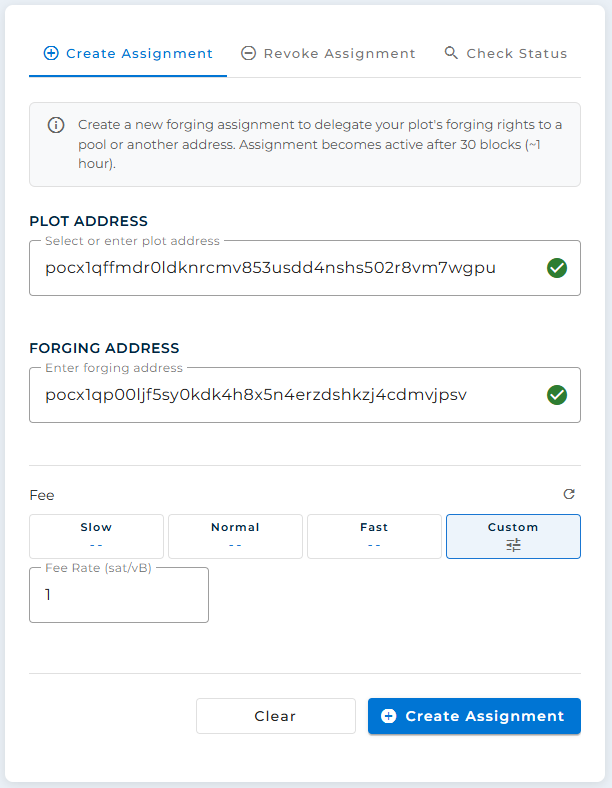
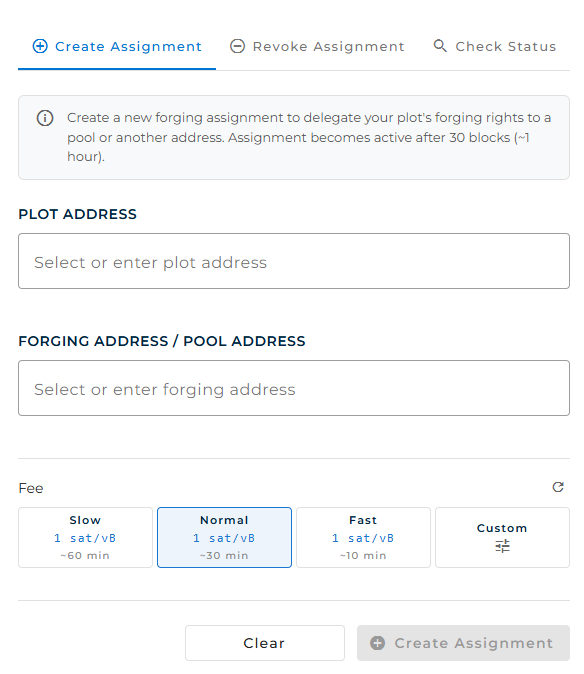
docs(handbook): sync to wallet v2.0.3 and add source-revision anchor (#90)
Bring the user handbook up to date with the wallet at 9e4854c (v2.0.3) and
record the revision it tracks, so future updates are a diff rather than a
full re-read.

Source-revision anchor:
- handbook/BASED-ON.md records the based-on commit + update procedure;
  README.md points to it. The original handbook (PR #81) recorded no revision;
  inferred base was 4c48855 (v2.0).

User-facing documentation deltas (found by diffing locales + components across
4c48855..9e4854c, including a backward audit of pre-base PRs):
- Pool forging addresses: new editor in the wizard's pool modal + autocomplete
  on the Forging Assignment screen (ch15, ch19; #78/#79).
- Configurable plot file size in GiB (ch15, ch16; #80).
- Miner/aggregator transient "Stopping" state, RPC/aggregator port-edit locks,
  and the custom bitcoind arguments editor (ch12, ch20, ch24; #89/#75).
- Clock-drift indicator + System Clock Drift dialog + notification toggle,
  previously undocumented (ch06, ch12, ch20; #77).
- Assignment/Revoke transaction types + detail panels, and fix the Abandon
  section that was wrongly marked "future release" (ch09; #74/#71).
- Cover bumped to v2.0.3; handbook.pdf rebuilt; screenshots retaken.

Claude-Session: https://claude.ai/code/session_01EnNB1AAjNeoabBjcqqr4bk

Pull request: docs(handbook): sync to wallet v2.0.3 + source-revision anchor
## Summary

The user handbook was authored a while ago and tracked no wallet revision, so it had silently drifted. This PR **syncs it to the current wallet (`9e4854c`, v2.0.3)** and introduces a durable anchor so future updates are a diff, not a re-read.

## Source-revision anchor (new)

- **`handbook/BASED-ON.md`** records the based-on commit + the update procedure (diff locales/components `BASED-ON..HEAD`). `README.md` now points to it.
- The original handbook (PR #81) recorded no revision; the inferred authoring base was **`4c48855` (v2.0)**, from the screenshot dates.

## How the delta was found

Diffed the wallet's user-facing surface across `4c48855..9e4854c` (locale keys + components), **plus a backward audit of pre-base PRs** after the clock-drift indicator (#77) turned out to predate the handbook yet was never documented. That audit surfaced three more gaps (#74, #75, and a mislabelled #71).

## Documentation changes

| Area | Change | Chapters | Source |
|------|--------|----------|--------|
| Pool forging addresses | New editor in the wizard's pool modal + autocomplete on the Forging Assignment screen | ch15, ch19 | #78, #79 |
| Plot file size | Configurable in GiB (default 1 TiB) | ch15, ch16 | #80 |
| Forging-address field | Renamed "Forging Address / Pool Address" | ch19 | #78 |
| Stopping state / port locks / custom bitcoind args | Transient *Stopping* state, RPC & aggregator port-edit locks, custom-args editor | ch12, ch20, ch24 | #89, #75 |
[…]

diff --git a/handbook/BASED-ON.md b/handbook/BASED-ON.md
@@ -1,0 +1,38 @@
+# Handbook source revision
+
+This file records the exact wallet revision the handbook content reflects. Keep
+it accurate: it is the anchor that makes future updates a *delta* (diff the app
+between this commit and the new HEAD) instead of a full re-read.
+
+| Field            | Value                                      |
+|------------------|--------------------------------------------|
+| Based-on commit  | `9e4854c1bb406d18041852a72cac89ab45a06017` |
+| Short SHA        | `9e4854c`                                   |
+| App version      | `2.0.3`                                      |
+| Synced on        | 2026-06-22                                   |
+
+## How to update the handbook against a newer wallet
+
+1. Note the new target: `git rev-parse HEAD` (and the app version in
+   `web-wallet/package.json`).
+2. Diff the wallet's user-facing surface between the based-on commit and the
+   target, e.g.:
+
+   ```sh
+   git log --oneline 9e4854c..HEAD
+   git diff 9e4854c..HEAD -- web-wallet/src/assets/locales/en.json
+   git diff 9e4854c..HEAD -- web-wallet/src/app
+   ```
+
+   `en.json` is the fastest signal: added/changed keys map almost one-to-one to
+   user-visible label, hint, and feature changes.
+3. Apply the documentation deltas to the affected chapters, retake any
+   screenshots whose UI changed, and bump `metadata.yaml`'s `date:`.
+4. Update the table above to the new commit, SHA, version, and date.
+
+## History
+
+| Synced on  | Based-on  | Version | Notes                                              |
+|------------|-----------|---------|----------------------------------------------------|
+| 2026-06-22 | `9e4854c` | 2.0.3   | First recorded revision. See `UPDATE-NOTES-2026-06.md`. |
+| (original) | `4c48855` | 2.0     | Initial handbook authoring (no revision was recorded). |

diff --git a/handbook/chapters/ch20-mining-dashboard.md b/handbook/chapters/ch20-mining-dashboard.md
@@ -28,7 +28,7 @@ The **Mining Status** card carries the control.
 - A **Start** / **Stop** button toggles the miner.
 - An **Auto-start** checkbox makes the miner start automatically whenever Phoenix launches (after the node is ready).
 
-To begin mining, click **Start**. The miner connects to your configured chains, loads your plot capacity, and begins responding to new blocks. To stop, click **Stop** — mining halts immediately; there is no batch to finish as there is with the plotter.
+To begin mining, click **Start**. The miner connects to your configured chains, loads your plot capacity, and begins responding to new blocks. To stop, click **Stop** — there is no batch to finish as there is with the plotter, but the miner briefly shows a *Stopping* state while its scan task winds down before it reports *Stopped*. During that moment the Start control is unavailable; it returns once the miner has fully stopped.
 
 > **Tip** — **Auto-start** is what you want for an unattended rig: after a reboot, power restoration, or a Phoenix update, the miner comes back by itself once Bitcoin-PoCX Core is ready. Leave it on for any machine whose job is to mine. The one thing auto-start *cannot* do is unlock an encrypted wallet — see the clock and wallet section below.
 
@@ -42,6 +42,7 @@ The status text and dot reflect what the miner is doing:
 | *Starting*   | The miner is connecting to chains and loading capacity.                                         |
 | *Scanning*   | A new block arrived; the miner is reading its plots to find a deadline. A progress bar shows how far through the scan it is. |
 | *Idle*       | The miner is running and has finished scanning the current block; it is waiting for the next one. |
+| *Stopping*   | You clicked Stop; the miner's scan task is winding down. It transitions to *Stopped* once it has fully exited. |
 | *Error*      | Something is wrong — the message names the problem.                                              |
 
 Most of a healthy miner's life is spent flipping between *Scanning* (briefly, when a block arrives) and *Idle* (waiting for the next block). On Bitcoin-PoCX's ~120-second block interval, you will see a short scan every couple of minutes.
@@ -130,7 +131,25 @@ The dashboard packs a lot of numbers; here is how to read them as a single answe
 
 Because Bitcoin-PoCX enforces a **15-second** timestamp tolerance (Chapters 3 and 14), a drifting system clock is one of the most insidious mining problems: the miner appears to run normally, scans complete, deadlines are found — but blocks you forge are rejected by peers as "too far in the future" or "too far in the past," and you quietly earn nothing.
 
-If your miner seems healthy on the dashboard but never successfully forges over a long period, **suspect the clock**. Confirm your operating system's network time synchronisation (NTP) is enabled and that a power-saving profile is not suspending it. A correctly synchronised clock is a prerequisite for mining, not an optional nicety.
+To make this visible before it costs you blocks, Phoenix monitors your clock against network time and surfaces it as the **clock-drift indicator** — the small clock (`schedule`) icon in the toolbar (Chapter 6). It colours itself by severity:
+
+| Indicator | Meaning                                                                                  |
+|-----------|------------------------------------------------------------------------------------------|
+| **Green** | *System clock is in sync.* Drift is comfortably within the safe threshold.                |
+| **Amber** | *Drift is approaching the safe threshold.* Still forging, but worth fixing now.           |
+| **Red**   | *Drift exceeds the safe threshold — PoCX forging will fail.* Blocks you forge are being rejected. |
+
+Clicking the indicator opens the **System Clock Drift** dialog, which gives you the detail behind the colour:
+
+![The System Clock Drift dialog: offset against NTP, with a Check Now button.](images/processed/ch20-clock-drift.png){width=55%}
+
+- **Offset** — how far your clock is ahead of or behind network time, and the warning/critical thresholds it is measured against (*"Warning at ±Ns · forging fails above ±Ns"*).
+- **Local time** and **NTP time** side by side, the **server** queried, the round-trip time (**RTT**), and how many **sources** agreed.
+- **Last checked**, and a **Check Now** button to re-query immediately.
+
+The indicator and dialog only appear when clock-drift monitoring is enabled — the *Warn when system clock drifts* toggle in Settings → Notifications (Chapter 12), which is on by default.
+
+If your miner seems healthy on the dashboard but never successfully forges over a long period, **suspect the clock** — and check this indicator first. Confirm your operating system's network time synchronisation (NTP) is enabled and that a power-saving profile is not suspending it. A correctly synchronised clock is a prerequisite for mining, not an optional nicety.
 
 ### The locked-wallet-after-restart trap
 

diff --git a/handbook/chapters/ch09-history.md b/handbook/chapters/ch09-history.md
@@ -23,7 +23,7 @@ The filter bar below the header narrows what appears in the table. All filters c
 | Filter   | What it does                                                                                                              |
 |----------|---------------------------------------------------------------------------------------------------------------------------|
 | **Search**  | Free-text match against transaction IDs and addresses. Useful when you remember part of a txid or recipient.            |
-| **Type**    | Restrict by category: *All*, *Send*, *Receive*, *Immature*, *Generate*. The mining-specific categories are explained below. |
+| **Type**    | Restrict by category: *All*, *Send*, *Receive*, *Immature*, *Generate*, *Assignment*, *Revoke*. The mining-specific categories are explained below. |
 | **From**    | Hide transactions older than the selected date.                                                                          |
 | **To**      | Hide transactions newer than the selected date.                                                                          |
 | **Reset**   | Clear all filters in one click.                                                                                          |
@@ -37,6 +37,13 @@ Two of the type-filter options exist because Bitcoin-PoCX miners receive rewards
 
 If you have never mined with this wallet, both filters will return empty lists.
 
+Two more types appear once you use forging assignments (Chapter 19):
+
+- **Assignment** — a transaction that delegated forging authority from one of your plot addresses to a forging address.
+- **Revoke** — a transaction that reclaimed forging authority back to the plot owner.
+
+Phoenix recognises these from their on-chain `OP_RETURN` marker and labels them as their own types rather than as ordinary sends, so you can pick them out of the history at a glance.
+
 ## The transactions table
 
 The table has seven columns. Reading left to right:
@@ -44,7 +51,7 @@ The table has seven columns. Reading left to right:
 | Column              | What you see                                                                                  |
 |---------------------|-----------------------------------------------------------------------------------------------|
 | **Date**            | Two-line stack: the date on top, the time below, in your local timezone.                      |
-| **Type**            | A small badge: *Send*, *Receive*, *Generate* (mined), or *Immature* (mining reward not yet spendable). |
+| **Type**            | A small badge: *Send*, *Receive*, *Generate* (mined), *Immature* (mining reward not yet spendable), or — for forging-assignment transactions (Chapter 19) — *Assignment* / *Revoke*. |
 | **Amount**          | Signed amount, in BTCX. Sends are shown as a debit, receives as a credit, fees deducted from sends. |
 | **Account**         | The wallet account label (if any) and the address involved in the transaction.                |
 | **Status**          | Confirmation status. See *Confirmation states* below.                                         |
@@ -119,6 +126,15 @@ Below the summary, two side-by-side panels list every **input** and **output** o
 
 The arrow between the two panels visualises that inputs are consumed and outputs are created. Total input minus total output equals the fee paid to the miner.
 
+### Assignment and revocation details
+
+When the transaction you opened is a forging **Assignment** or **Revoke** (Chapter 19), the detail page adds a dedicated panel above the inputs and outputs, decoded from the transaction's `OP_RETURN`:
+
+- **Assignment Details** — the **plot address** whose forging is delegated, the **forging address** it is delegated to, and the **activation height** at which the assignment takes effect. Until the transaction confirms, the height reads *Pending Confirmation*.
+- **Revocation Details** — the **plot address** being reclaimed and the **effective height** at which authority returns to the owner, again showing *Pending Confirmation* while unconfirmed.
+
+These are the same figures the Forging Assignment screen's *Check status* tab reports (Chapter 19); the transaction detail page is simply where you see them for a specific assignment or revocation transaction in your history.
+
 > **Tip** — A small *change* output back to your own wallet is normal and expected. Bitcoin-style transactions almost never spend exactly the amount of an existing UTXO — the difference returns to a fresh address you control. Phoenix's balance accounting handles this transparently; the inputs/outputs view shows it explicitly.
 
 ## Bumping a stuck transaction (RBF)
@@ -153,8 +169,6 @@ Below the priority buttons, a small summary block highlights the **fee increase*
 When you click **Confirm**, Phoenix calls Bitcoin-PoCX Core's `bumpfee` RPC. Core constructs the replacement transaction, signs it with your wallet's keys, and broadcasts it. A success notification displays the new transaction's ID; the original transaction's row in the list is replaced by the new one (or marked superseded, depending on your view), and the new fee figure now reflects what you just paid.
 
 If even the bumped transaction will not confirm — fees may have spiked further while you were watching — you can bump again with a higher rate, or wait for mempool conditions to settle. Chapter 26 covers the deeper troubleshooting cases.
-
-> **Note** — The workflow described in the next section is **planned for a future release** and is not yet available in the wallet. The text below describes the intended behaviour so this handbook is ready when the feature ships. Until then, the only ways out of a stuck *non-RBF* transaction are to wait for it to be evicted from the mempools, or — if the transaction was sent with RBF enabled — to use the bump-fee workflow above.
 
 ## Abandoning a stuck transaction
 

diff --git a/handbook/chapters/ch12-settings.md b/handbook/chapters/ch12-settings.md
@@ -6,7 +6,7 @@ You can reach it from two places: the **gear** icon in the toolbar and the **Set
 
 The screen is organised into four tabs. This chapter walks through each one in turn.
 
-![Settings â€” the Node Configuration tab in managed mode.](images/processed/ch12-settings-managed.png){width=98%}
+![Settings â€” the Node Configuration tab in managed mode.](images/processed/ch12-settings-managed.png){width=55%}
 
 ## Tab 1 — Node Configuration
 
@@ -50,6 +50,18 @@ If no node binary is installed yet (because you previously chose external mode, 
 | **Aggregator listen port** | The port the optional aggregator listens on when enabled (Chapter 24). Defaults to `8080`. |
 
 Override either only if another program already uses the default.
+
+> **Note** — A running service locks the port that depends on it, and a small hint appears explaining why. The **Wallet RPC port** cannot be edited while the node, miner, or aggregator is running. The **Aggregator listen port** is stricter only about the parts that use it — it is locked while the miner or aggregator is running, but a running node alone does not block it. Stop the relevant services first, change the port, then start them again.
+
+**Custom bitcoind arguments.** Also inside Advanced options is an editor for extra command-line arguments passed to the managed `bitcoind` when it starts — for tuning the node beyond what the rest of the panel exposes (for example `dbcache`, `proxy`, or `maxconnections`).
+
+- Each argument is a **Key** and an optional **Value** row; click **Add argument** to add one and **Remove** to delete it. When none are set, the editor shows *"No custom arguments set."*
+- Write option names **without the leading dash** — `dbcache`, not `-dbcache`.
+- For **flag-only** options that take no value, leave the value empty (the field hints *"(empty = flag only)"*).
+- A handful of keys are **managed by the wallet** (the ports, network, data directory, and similar that Phoenix sets itself). If you enter one of those, Phoenix flags it as reserved and ignores it on save, so your custom argument can never fight the wallet's own configuration.
+- Changes take effect on the next node start — **restart the node to apply them** (the editor reminds you).
+
+> **Warning** — These arguments are passed straight to Bitcoin-PoCX Core. A wrong or conflicting option can stop the node from starting. Change this only if you understand the `bitcoind` option you are setting; when in doubt, leave it empty.
 
 **Node updates.** A small section near the bottom of the panel.
 
@@ -111,6 +123,12 @@ The list is split into two groups.
 | **Node connected**      | Phoenix establishes (or re-establishes) its RPC connection to Core.                    |
 | **Node disconnected**   | Phoenix loses its RPC connection to Core.                                              |
 | **Sync complete**       | The node finishes its initial blockchain sync or catches back up after being behind.   |
+
+### System notifications
+
+| Toggle                          | Fires when…                                                                            |
+|---------------------------------|----------------------------------------------------------------------------------------|
+| **Warn when system clock drifts** | Your system clock drifts far enough from network time to threaten forging. This also drives the toolbar's clock-drift indicator (Chapter 6) and the **System Clock Drift** dialog (Chapter 20). On by default — a drifting clock silently breaks mining, so the warning is worth keeping. |
 
 A master toggle near the top of the tab disables every notification at once if you want a quiet session without losing the per-event configuration.
 

diff --git a/handbook/chapters/ch15-mining-wizard.md b/handbook/chapters/ch15-mining-wizard.md
@@ -43,7 +43,7 @@ The modal asks three things in sequence: the chain name, the mode, and the mode-
 **Mode.** Three radio buttons:
 
 - **Solo.** Mine via the local Bitcoin-PoCX Core node Phoenix is already connected to. No URL or credentials required; everything stays in-process.
-- **Pool.** Mine into a pool you select from a built-in list of known pools (the list is curated by the project; you do not type a URL yourself).
+- **Pool.** Mine into a pool you select from a built-in list of known pools (the list is curated by the project; you do not type a URL yourself). Picking a known pool also fills in that pool's published *forging addresses* for you — see *Pool forging addresses* below.
 - **Custom.** Mine into a URL you supply. Used for private pools, development nodes, or relays. You also specify whether the endpoint runs in *solo* or *pool* mode and what block time to assume.
 
 **Connection and authentication.** Pool and custom modes show an *authentication* section with three options:
@@ -55,6 +55,12 @@ The modal asks three things in sequence: the chain name, the mode, and the mode-
 | **Cookie**  | The endpoint accepts a cookie file path you supply.                                           |
 
 Solo mode also exposes a small **Aggregator** toggle in the modal. Enable it here if this Phoenix instance is going to be the aggregator for a multi-machine farm (Chapter 24); leave it off otherwise.
+
+**Pool forging addresses** (pool mode). Below the pool selector, the modal shows a list of the pool's **forging addresses** — the addresses your miners assign to in order to mine for that pool (Chapter 19). When you pick a known pool, Phoenix seeds this list from the pool's published address(es); you can edit them, or click **+ Add address** to add your own, each with a free-text label. Addresses are validated as you type, and blank rows are dropped when you save. These saved addresses are what later appear in the dropdown on the **Forging Assignment** screen (Chapter 19), so you do not have to paste the pool's address by hand every time.
+
+![The pool chain modal: the pool selector and the seeded list of pool forging addresses.](images/processed/ch15-pool-addresses.png){width=60%}
+
+**Saving the modal.** The footer button reads **Add** when you are creating a new chain and **Apply** when you are editing an existing one; **Cancel** discards the modal. Applying a change stages it in the wizard — it is written to disk when you **Save & close** the wizard itself.
 
 > **Tip** — A typical first setup has exactly one chain: a solo chain against your local Bitcoin-PoCX Core. Pool mining usually requires an on-chain forging assignment to the pool's forging address before submissions are accepted, which is a Chapter 19 concern. Set the solo chain up first, get mining working, and revisit pool configuration once you understand how assignments work.
 
@@ -140,6 +146,7 @@ The collapsible block in step 2 is the densest part of the wizard. Most of it is
 |--------------------------|-------------------------------------------------------------------------------------------|
 | **Drives in parallel**   | How many drives the plotter writes to simultaneously. Match this to your plotting device's throughput versus per-drive write speed: a GPU that plots at ~600 MiB/s can keep four drives busy at ~150 MiB/s each, so *drives in parallel = 4* saturates it. Set it too low and the device idles; too high and each drive starves. 2–4 is a reasonable range for most rigs; pushing higher only pays off when the plotting device is fast enough to feed them all. |
 | **Memory escalation**    | A multiplier on the per-drive plotter cache budget — **use as much of your RAM as you can spare.** A larger cache lets the plotter accumulate bigger contiguous chunks before flushing, which turns plotting into longer linear writes to the HDD and raises write throughput. Aim for **5 or higher** if your RAM supports it. Use the live memory-estimation box above as your guide: push the value up until the estimated total is close to your available RAM, leaving roughly **1–2 GiB free for the operating system**. Going past that — so the estimate exceeds available RAM — risks swapping, which is far slower than the plotting speed you were trying to gain. |
+| **Plot file size (GiB)** | The size of each individual plot file, in GiB (1 warp = 1 GiB). Default is `1024` — a 1 TiB file. Phoenix splits each drive's allocation into files of this size, plus a smaller remainder file. Smaller files mean more files per drive (and more resume points); larger files mean fewer, bigger ones. The accepted range is 8 GiB to 16384 GiB (16 TiB). Leave it at the default unless your filesystem or workflow has a specific reason to prefer a different file size. |
 | **PoW scaling level**    | The X-level the plotter writes — `X1` through `X6`. Higher levels embed exponentially more proof-of-work per warp, in line with the network's halving schedule (whitepaper §6). The wizard defaults to the network's current minimum; you can pre-plot one level higher to avoid an immediate upgrade after the next halving. |
 | **Direct I/O (plotter)** | Bypasses the OS file cache when writing plot files. Faster on large workloads; can interfere with cache-aware backup tools (which you should not be using on plot drives anyway). |
 | **Async write**          | Issues plotter writes asynchronously to overlap I/O with compute. The default on the v2 plotter. |

diff --git a/handbook/README.md b/handbook/README.md
@@ -18,6 +18,13 @@ From the `handbook/` directory:
 
 The output is written to `../handbook.pdf` (the repository root). The first build under MiKTeX takes longer because it downloads several LaTeX packages on demand.
 
+## Source revision
+
+The handbook documents a specific build of the wallet. The commit it is
+currently based on — and the procedure for updating it against a newer build —
+is recorded in [`BASED-ON.md`](BASED-ON.md). Update that file whenever you sync
+the handbook to a new wallet revision.
+
 ## Project layout
 
     phoenix-pocx-handbook/

diff --git a/handbook/chapters/ch06-tour.md b/handbook/chapters/ch06-tour.md
@@ -117,8 +117,9 @@ A row of small icons that turn solid (active) when something is running. They ap
 | **Miner**         | `hardware`  | The miner is running and scanning plots. Visible only after you have configured mining (Chapter 15).         |
 | **Plotter**       | `storage`   | The plotter has work to do. Solid means actively plotting; outlined means a plan exists but is paused.       |
 | **Wallet lock**   | `lock` / `lock_open` | Visible only when at least one encrypted wallet is loaded. The icon shows whether any wallet is currently unlocked for spending. |
+| **Clock drift**   | `schedule`  | A small clock that colours green / amber / red according to how far your system clock has drifted from network time. Visible only when clock-drift monitoring is enabled (Chapter 12). Click it to open the **System Clock Drift** dialog (Chapter 20). |
 
-Hovering over any of these icons reveals a tooltip with the current state in words. They are the fastest way to confirm at a glance that the things you expect to be running really are.
+Hovering over any of these icons reveals a tooltip with the current state in words — the clock indicator's tooltip reads, for example, *"Clock is 0.4s ahead of NTP."* They are the fastest way to confirm at a glance that the things you expect to be running really are.
 
 ### Wallet selector
 

diff --git a/handbook/chapters/ch19-forging-assignments.md b/handbook/chapters/ch19-forging-assignments.md
@@ -49,11 +49,12 @@ Open **Forging Assignment** from the sidebar's *Mining* group. The screen shows 
 
 The **Create assignment** tab needs two addresses.
 
+<!-- TODO screenshot retake: ch19-create-assignment.png — the Forging Address field is now labelled "Forging Address / Pool Address" and is a select-or-enter with an autocomplete dropdown. -->
 ![The Create assignment tab: plot address, forging address, and fee.](images/processed/ch19-create-assignment.png){width=60%}
 
 **Plot address.** A *select-or-enter* field: pick one of your wallet's addresses from the dropdown, or paste an address manually. This is the address embedded in the plots whose forging you want to delegate — usually the plotting address you set in the mining wizard (Chapter 15).
 
-**Forging address.** The address you are delegating forging authority *to*. For pool mining, this is the pool's forging address (from the pool's information page). For a cold/hot split, this is the address of the hot wallet on your mining machine. Phoenix enforces one rule here: the forging address must be **different** from the plot address — assigning an address to itself is meaningless and is rejected.
+**Forging Address / Pool Address.** The address you are delegating forging authority *to*. This is also a *select-or-enter* field: as you focus it, an autocomplete dropdown offers the **pool forging addresses you configured in the mining wizard** (Chapter 15), each shown with its label and pool name — so for pool mining you can pick the pool's address directly instead of pasting it. You can still type or paste any address by hand. For pool mining, this is the pool's forging address (from the pool's information page, or seeded into the wizard when you selected a known pool). For a cold/hot split, this is the address of the hot wallet on your mining machine. Phoenix enforces one rule here: the forging address must be **different** from the plot address — assigning an address to itself is meaningless and is rejected.
 
 When both are filled, click **Create assignment**. Phoenix builds the `OP_RETURN` transaction, asks Bitcoin-PoCX Core to sign it with the plot owner's key (you will be prompted for the wallet password if the wallet is encrypted), and broadcasts it — exactly like an ordinary send, with the same fee-selection controls. Once the transaction confirms, the assignment enters its **Assigning** state and the ~30-block activation clock starts.
 

diff --git a/handbook/chapters/ch16-plotting.md b/handbook/chapters/ch16-plotting.md
@@ -18,6 +18,8 @@ A plan is made of three kinds of task:
 
 The plan is ordered so that resumable `.tmp` files are dealt with sensibly, fresh plotting follows, and each completed drive is added to the miner as it becomes ready.
 
+> **Note** — Each **Plot** task produces one plot *file*. The size of those files is the **Plot file size** set in the wizard's step-2 advanced options (Chapter 15) — 1 TiB by default. A drive's allocation is split into as many full-size files as fit, plus a smaller remainder file for whatever is left over. This is also the unit a *soft stop* completes before pausing (see *Stopping plotting* below).
+
 > **Tip** — You can inspect the full plan before or during plotting. The Mining Dashboard's plotter area includes a **plan viewer** that lists every task with its drive, size, and status. It is the most direct way to answer "what is Phoenix about to do, and in what order?"
 
 ## Where plotting is controlled

diff --git a/handbook/chapters/ch24-aggregator.md b/handbook/chapters/ch24-aggregator.md
@@ -83,7 +83,7 @@ Either way, the aggregator does not care what software submitted a solution — 
 
 The aggregator dashboard is your window onto the whole farm. Its panels:
 
-**Status.** Whether the aggregator is *Offline*, *Starting*, or *Running*, with a **Start** / **Stop** control. While offline, it shows *"Press Start to begin accepting submissions."*
+**Status.** Whether the aggregator is *Offline*, *Starting*, *Running*, or *Stopping*, with a **Start** / **Stop** control. *Stopping* is the brief state after you click Stop, while the listener winds down before it reports *Offline*; the Start control returns once it has fully stopped. While offline, it shows *"Press Start to begin accepting submissions."*
 
 **Summary stats.** Headline figures for the farm: how many **machines** and **accounts** are reporting, the current **block height**, total **capacity** across all contributors, the **network capacity** for comparison, and uptime.
 